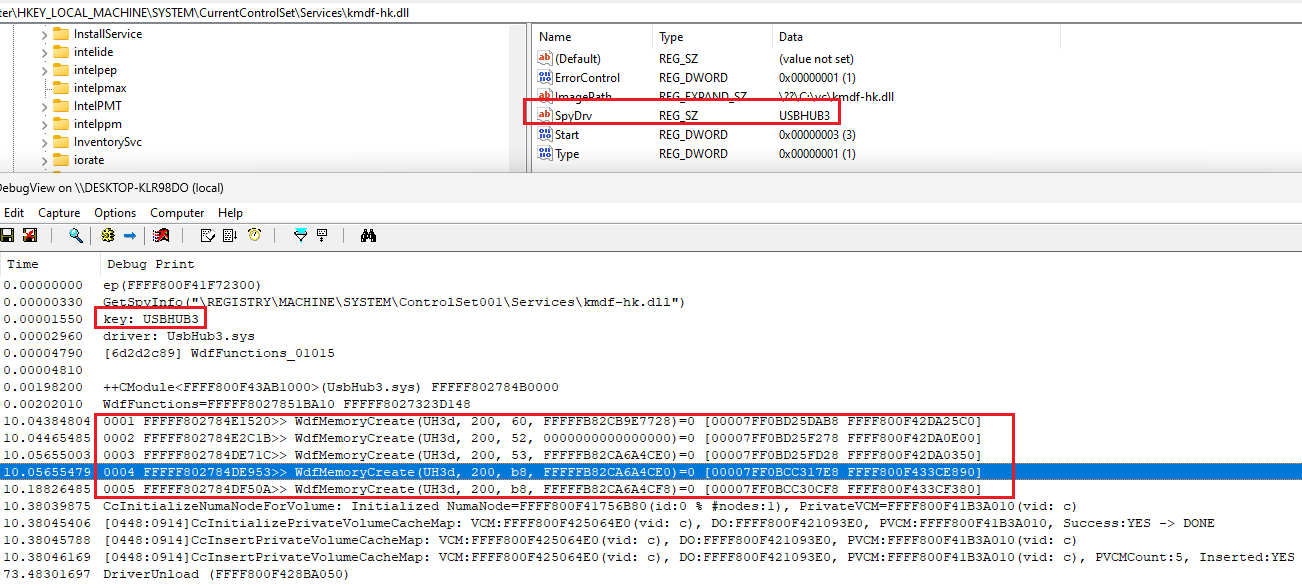
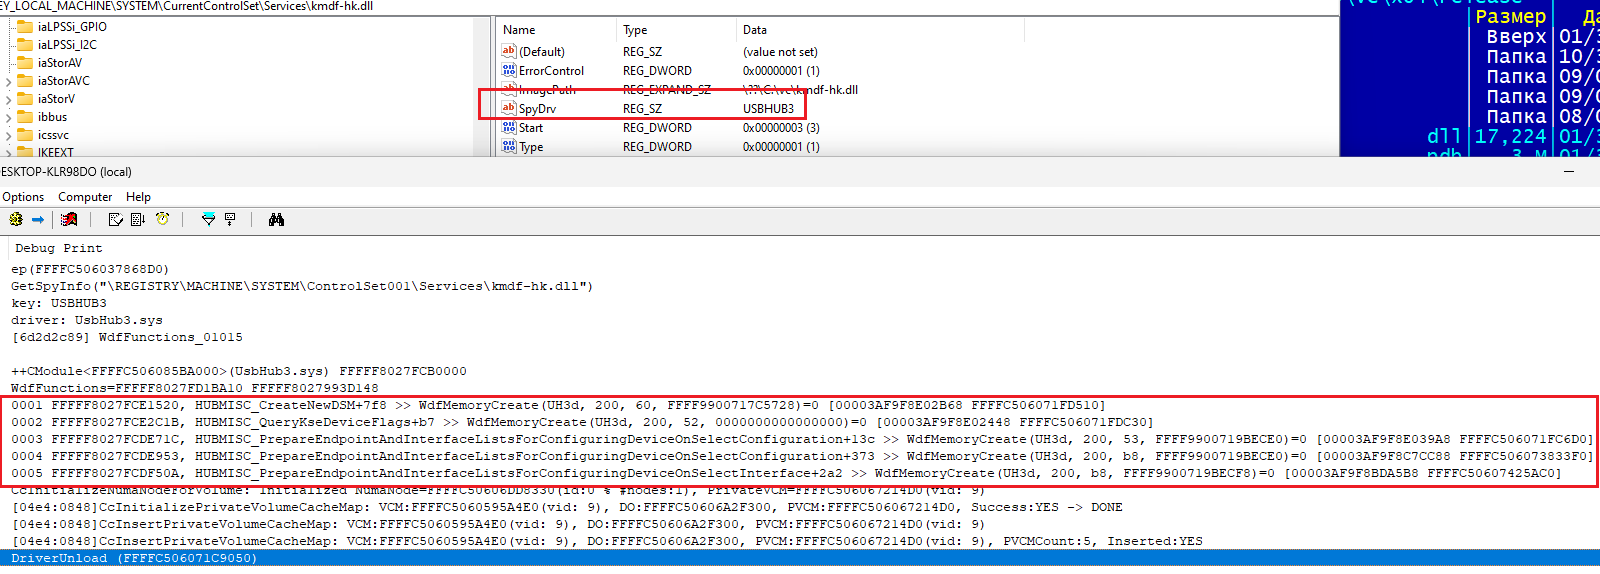
*

Changed region(s): [[0.0, 0.0, 1.0, 1.0]]

diff --git a/driver.cpp b/driver.cpp
@@ -1,7 +1,10 @@
 #include "stdafx.h"
 
 _NT_BEGIN
+#include "..\kpdb\module.h"
+
 #include "wdfindex.h"
+
 typedef struct WDF_DRIVER_GLOBALS *PWDF_DRIVER_GLOBALS;
 typedef struct WDF_OBJECT_ATTRIBUTES *PWDF_OBJECT_ATTRIBUTES;
 
@@ -84,8 +87,18 @@ hook_WdfMemoryCreate(
 	LONG count = InterlockedIncrementNoFence(&_S_count);
 	if (count <= 0x1000)
 	{
-		DbgPrint("%04x %p>> WdfMemoryCreate(%.4s, %x, %x, %p)=%x [%p %p]\n", count,
-			_ReturnAddress(), &PoolTag, PoolType, BufferSize, Attributes, status, *Memory, *Buffer);
+		ULONG d;
+		PVOID ret = _ReturnAddress();
+		PCSTR name;
+		PCSTR func = CModule::GetNameFromVa(ret, &d, &name);
+		
+		if (!func)
+		{
+			func = "";
+		}
+
+		DbgPrint("%04x %p, %s+%x >> WdfMemoryCreate(%.4s, %x, %x, %p)=%x [%p %p]\n", count,
+			ret, func, d, &PoolTag, PoolType, BufferSize, Attributes, status, *Memory, *Buffer);
 
 	}
 
@@ -115,14 +128,22 @@ hook_WdfMemoryCreatePreallocated(
 	LONG count = InterlockedIncrementNoFence(&_S_count);
 	if (count <= 0x1000)
 	{
-		DbgPrint("%04x %p>> WdfMemoryCreatePreallocated(%x, %p %p)=%x [%p]\n", count,
-			_ReturnAddress(), BufferSize, Buffer, Attributes, status, *Memory);
+		ULONG d=0;
+		PVOID ret = _ReturnAddress();
+		PCSTR name;
+		PCSTR func = CModule::GetNameFromVa(ret, &d, &name);
+
+		if (!func)
+		{
+			func = "";
+		}
+
+		DbgPrint("%04x %p, %s+%x >> WdfMemoryCreatePreallocated(%x, %p %p)=%x [%p]\n", count,
+			ret, func, d, BufferSize, Buffer, Attributes, status, *Memory);
 	}
 
 	return status;
 }
-
-#include "..\kpdb\module.h"
 
 NTSTATUS GetSpyInfo(_Inout_ PUNICODE_STRING RegistryPath, _Out_ PULONG hash, _Out_ PSTR WdfFunctions, _In_ ULONG cch);
 
